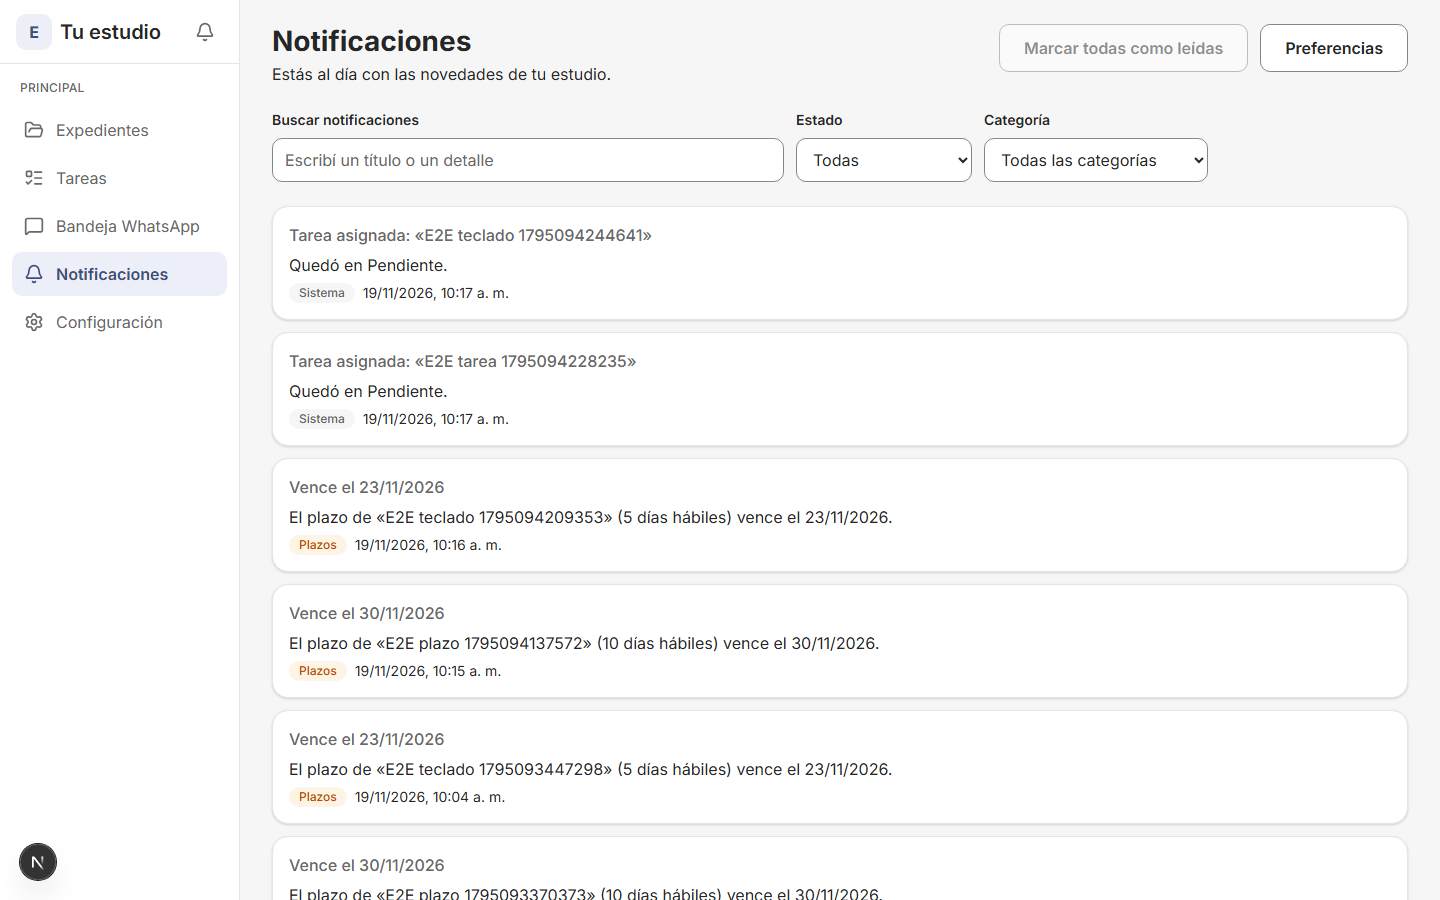
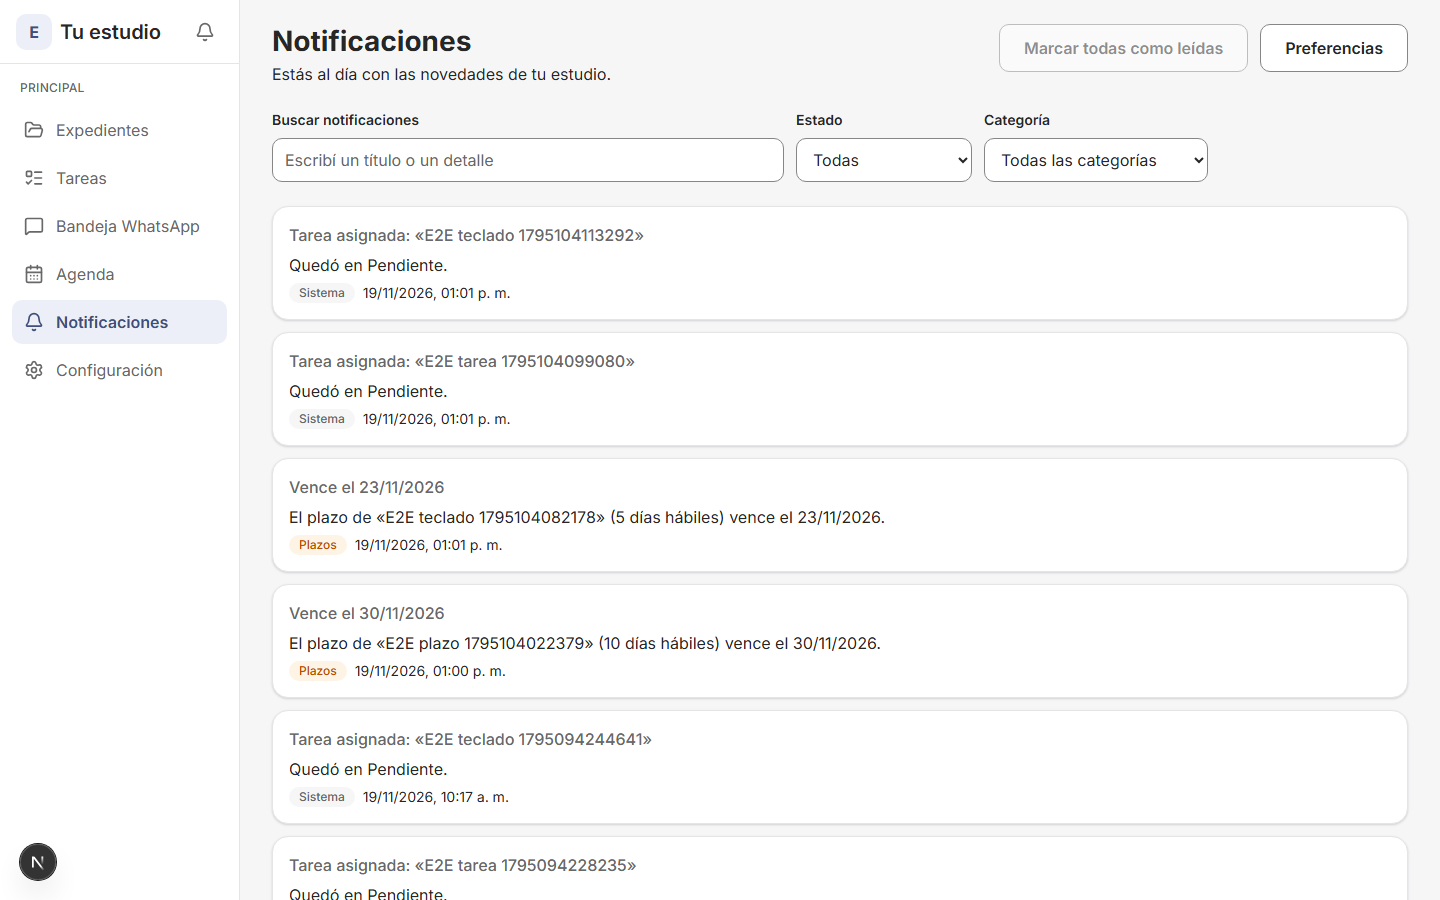
docs(replica): mark S17 slice 1 partial and add m2-agenda task doc

diff --git a/odd/tasks/m2-agenda.md b/odd/tasks/m2-agenda.md
@@ -1,0 +1,73 @@
+# M2 agenda — shared studio calendar (S17)
+
+Objective: ship the Agenda area in vertical slices: events data layer -> `/agenda` with Lista view -> case-detail Agenda tab -> remaining views/overlays. Branch: `master` (direct commits + push per unit, no PR chain). Test runner: `npm run test` (vitest), `npx playwright test` (e2e), `npm run lint`, `npm run build`.
+
+Slice order rationale (assumption, flagged): Lista first because it is the case tab's opening view ("opens in Lista") and the mobile-narrow default; the other four views build on the same layer.
+
+## Specs
+
+Scope source: `replica/features.csv` rows 33-36 + `replica/recon.md` S17 (+ S08 tab row) + `replica/clone-screens/`.
+
+### S1 — Shared studio calendar (five views)
+
+Verbatim features.csv row:
+
+> Shared studio calendar (five views),agenda,should,yes,no,S17; Día / Semana / Mes / Año / Lista
+
+Key verbatim recon S17 fragments:
+
+> `/agenda`; expediente tab **Agenda** = scoped version (opens in Lista) | Shared studio calendar | Top bar: **Hoy** (`H`), ‹ ›, period title (+ "Semana 43" label), **Expediente** filter, view selector **Día/Semana/Mes/Año/Lista** (`D/S/M/A/L`), toggles Fines de semana / Días inhábiles, shortcuts, **Nuevo evento** (`C`); left panel: search (`Ctrl+K`), mini-month calendar with color dots + hatched inhábiles, category checkboxes (6 default categories, 11 colors) + Audiencias/Vencimientos/Fines de semana ... | ... **empty**: "No hay eventos con estos filtros" + active-filter chips + Limpiar filtros + "Ir al próximo"; **error**: "No pudimos cargar la agenda" + Reintentar; narrow: left panel hidden behind icon; **mobile**: Lista or Día only (no Año), swipe weeks; loading: previous period stays visible with a thin top bar while next loads
+
+Acceptance criteria:
+- Events live in the existing `events` table (`supabase/migrations/20261114120000_init.sql`); the data layer is a `lib/data` driver following the existing Supabase driver pattern — no new data-access pattern. If the live table shape does not fit the recon'd behavior, STOP and report before writing any migration.
+- Slice 1 (`/agenda`): route + left-panel-free Lista view of upcoming events with search/filter, empty state "No hay eventos con estos filtros" + Limpiar filtros, error state "No pudimos cargar la agenda" + Reintentar, loading, mobile 390 px, nav entry.
+- Slice 2: case-detail **Agenda** tab = scoped version opening in Lista (recon S08/S17).
+- Later slices: Día/Semana/Mes/Año views, Hoy `H` + period nav + `D/S/M/A/L` shortcuts, weekend/inhabil toggles, category checkboxes (6 defaults / 11 colors) + Audiencias/Vencimientos overlays, event detail popover (create/edit/duplicate/delete, read-only overlays), Google Calendar status row (deferred — needs user credentials).
+- Clean-room: Spanish rioplatense voseo UI copy authored fresh (recon quotes the original's strings as evidence; do not copy sentences verbatim unless they are generic UI tokens already used in the clone).
+- If a view's behavior is not derivable from recon S17, STOP and report instead of inventing.
+
+### S2 — Case-detail Agenda tab (scoped)
+
+Verbatim recon fragment (S08 row): tabs list includes `Agenda`; (S17 row) `expediente tab **Agenda** = scoped version (opens in Lista)`.
+
+Acceptance criteria:
+- Tab renders in the case detail strip via the shared `case-tabs.ts` vocabulary (added in commit 5fe3770), `?tab=agenda` deep link stable on refresh.
+- Events scoped to the case (route param), opening in Lista; reuses the S1 driver unchanged.
+
+### S3 — Categories and audiencias/vencimientos overlays (later)
+
+Verbatim features.csv row:
+
+> Categories and audiencias / vencimientos overlays,agenda,should,yes,no,S17; six default categories with 11 colors
+
+Blocked until: category model defined, hearings/vencimientos sources exist (recon marks audiencias thin; vencimientos tie to plazos). Do not start before S1 slices 1-2 land; report evidence gaps before building.
+
+## Tasks
+
+| ID | S# | Route | Status | Commit |
+|----|----|-------|--------|--------|
+| T1 | S1 | delegated (writer) | done — events driver pair (`lib/data/events.ts` + `lib/supabase/events.ts`) + 25 unit tests; table fits, no migration; API surface documented in Log L4 | (batch 1 seam + commit block) |
+| T2 | S1 | delegated (writer, after T1) | done — `/agenda` Lista view + nav entry + e2e s17 (30 unit, 16 e2e green) | (batch seam + commit block) |
+| T3 | S2 | delegated (writer, after T2) | done — `AgendaPanel` compartido (un componente, dos scopes), `?tab=agenda` estable, e2e S08-T2 scoping (34 unit, 19 e2e green) | (batch seam + commit block) |
+| T4 | S1 | deferred — Día/Semana/Mes/Año views + shortcuts + toggles | pending | |
+| T5 | S1 | deferred — left panel (search, mini-month, category checkboxes) + popovers + CRUD events | pending | |
+| T6 | S3 | deferred — categories admin + overlays (needs evidence check first) | pending | |
+| T7 | S1 | deferred — mobile bottom-bar parity: add Agenda (+Tareas) to `components/shell/mobile-bar.tsx` | pending — pre-existing tracked debt (parity.md line 165: our bar 3 items vs original 5; sections today reachable only by URL) | |
+
+Git policy: writers never commit; parent owns git, runs the seam suite, commits one unit at a time (staging only that unit's paths) and pushes per unit — accepted cadence.
+
+## Log
+
+L1 (2026-11-19, user verbatim): "peter, ya desplegue al proyecto abogapp en vercel, y funcionando. seguimos donde nos quedamos ayer?"
+
+L2 (2026-11-19, user verbatim): "en ese orden" — answering the direction menu (parciales chicos -> área grande nueva -> M3 jobs+email -> producción primero).
+
+L3 (2026-11-19, user verbatim): "Agenda (S17)" — choosing the área grande; Documentos (S18-S20) deferred.
+
+L4 (2026-11-19): T1 done — events driver pair (`lib/data/events.ts` 543 + `lib/supabase/events.ts` 179 + 864 tests lines, 25 tests). Live `events` table fits recon S17 (source check, category_id FK, (study_id,start_at)/(case_id,start_at) indexes) — NO migration needed; `event_categories` ships empty (init.sql TODO) so `listEventCategories()` honestly returns [] until T6 (6 default names/11 colors not in recon = do not invent). API surface: listEvents/listUpcomingEvents/listEventsByCase/listEventCategories, applyEventFilters, upcomingEventWindow, EVENT_SOURCES (manual|audiencia|vencimiento|dia_inhabil), UPCOMING_DAYS=30. Window semantics [from,to) overlap (tiles adjacent periods). Parent appended the re-export block to lib/data/index.ts (reported out-of-surface). Verification: RED->GREEN, 25/25 + lib/data 206/206, tsc+eslint clean. 1,586 lines.
+
+L5 (2026-11-19): T2 done — `/agenda` Lista slice: agenda-view (371) + agenda-list pure logic (286) + 30 unit tests + nav entry in main-nav + e2e s17-agenda (4 tests: empty copy verbatim, seeded list via RLS REST, forced-500 error+Reintentar, 390px+axe). Category checkboxes hidden while listEventCategories() is []. Deferred slice-1 items: mobile bottom-bar entry (T7), "Ir al próximo", vencimiento labels, CRUD/popovers (T5), other views (T4), per-browser filter persistence, screenshot. Gotchas: lib/search last-token Levenshev<=2 cross-matches seeded titles; audiencia events need a real hearings row (chk_event_source_fk); react-hooks/set-state-in-effect escape = promise callback. 1,317 lines. Verification: 30 unit, 16 e2e green, tsc+eslint clean.
+
+L6 (2026-11-19): T3 done — shared AgendaPanel({caseId?}) extracted from agenda-view (one component, two scopes; agenda-view reduced to 26-line shell), agenda-tab.tsx + explicit branch (case-detail-view final ternary else renders Pruebas — tabs after pruebas need explicit branches), case-tabs order now 5 (after Pruebas per recon), e2e S08-T2 proves scoping (case row present in tab, study row absent there but present on /agenda). Net +176 (extraction-dominated). Verification: 34 unit, 19 e2e (s08+s17) green, tsc+eslint clean.
+
+L7 (2026-11-19): Batch seam ALL GREEN: vitest 352/352, eslint clean, next build 20/20 pages, playwright 112 passed / 1 skipped (AU02-H1 by-design skip), zero flakes (M2-E3 + AU01-H1 passed first try). features.csv row 33 -> partial (S17 slice 1 of 5 views). Commits: driver, /agenda, case tab, docs.
